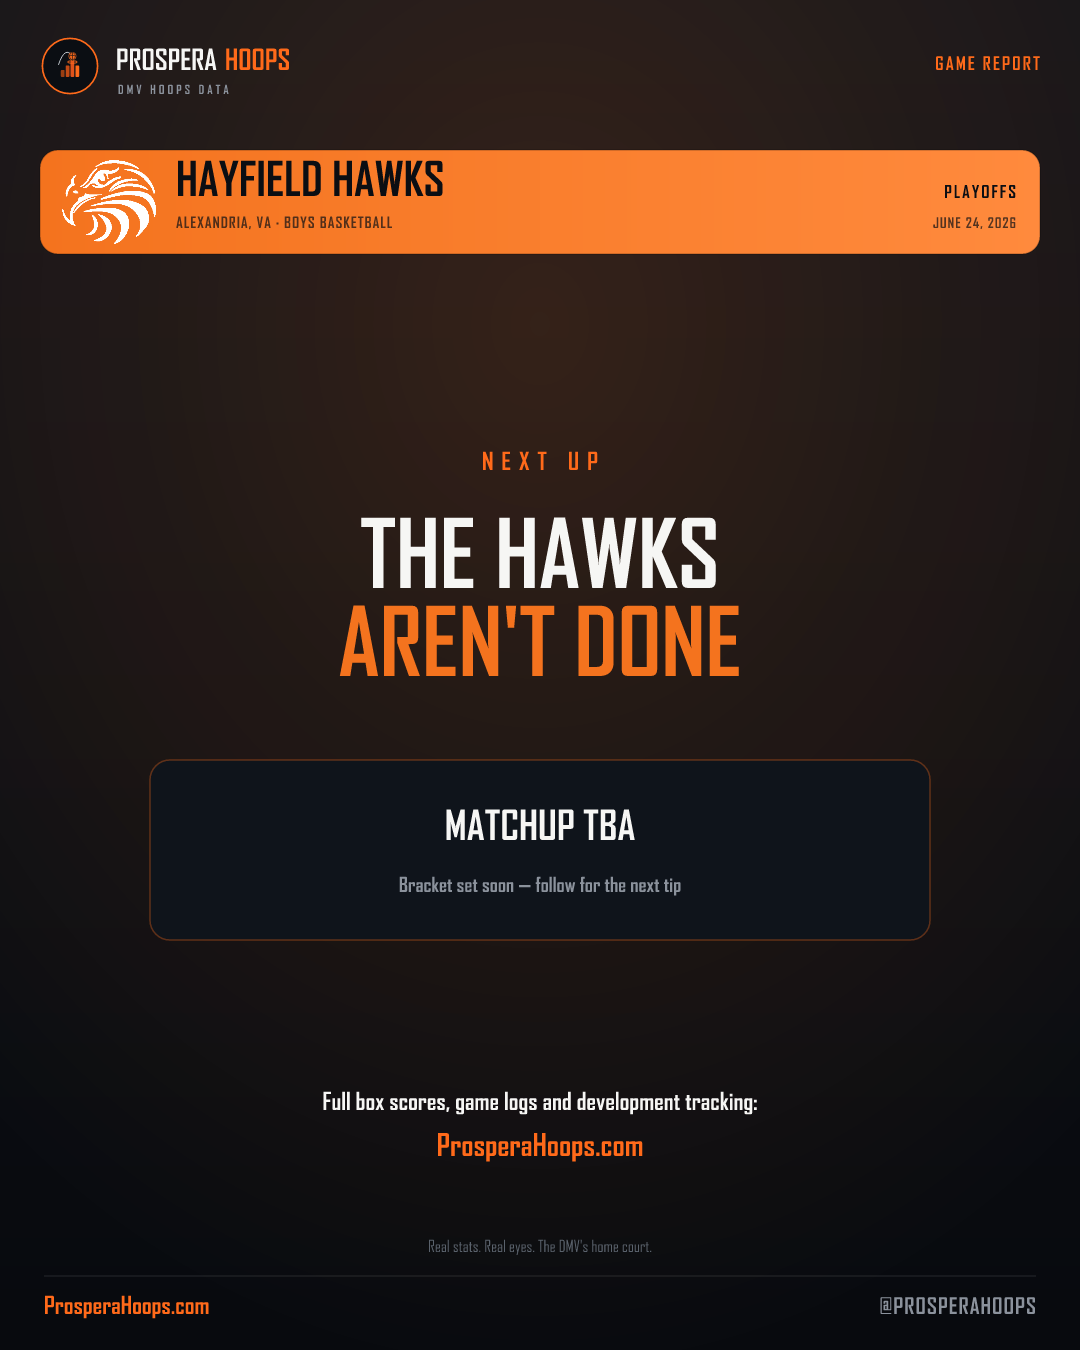
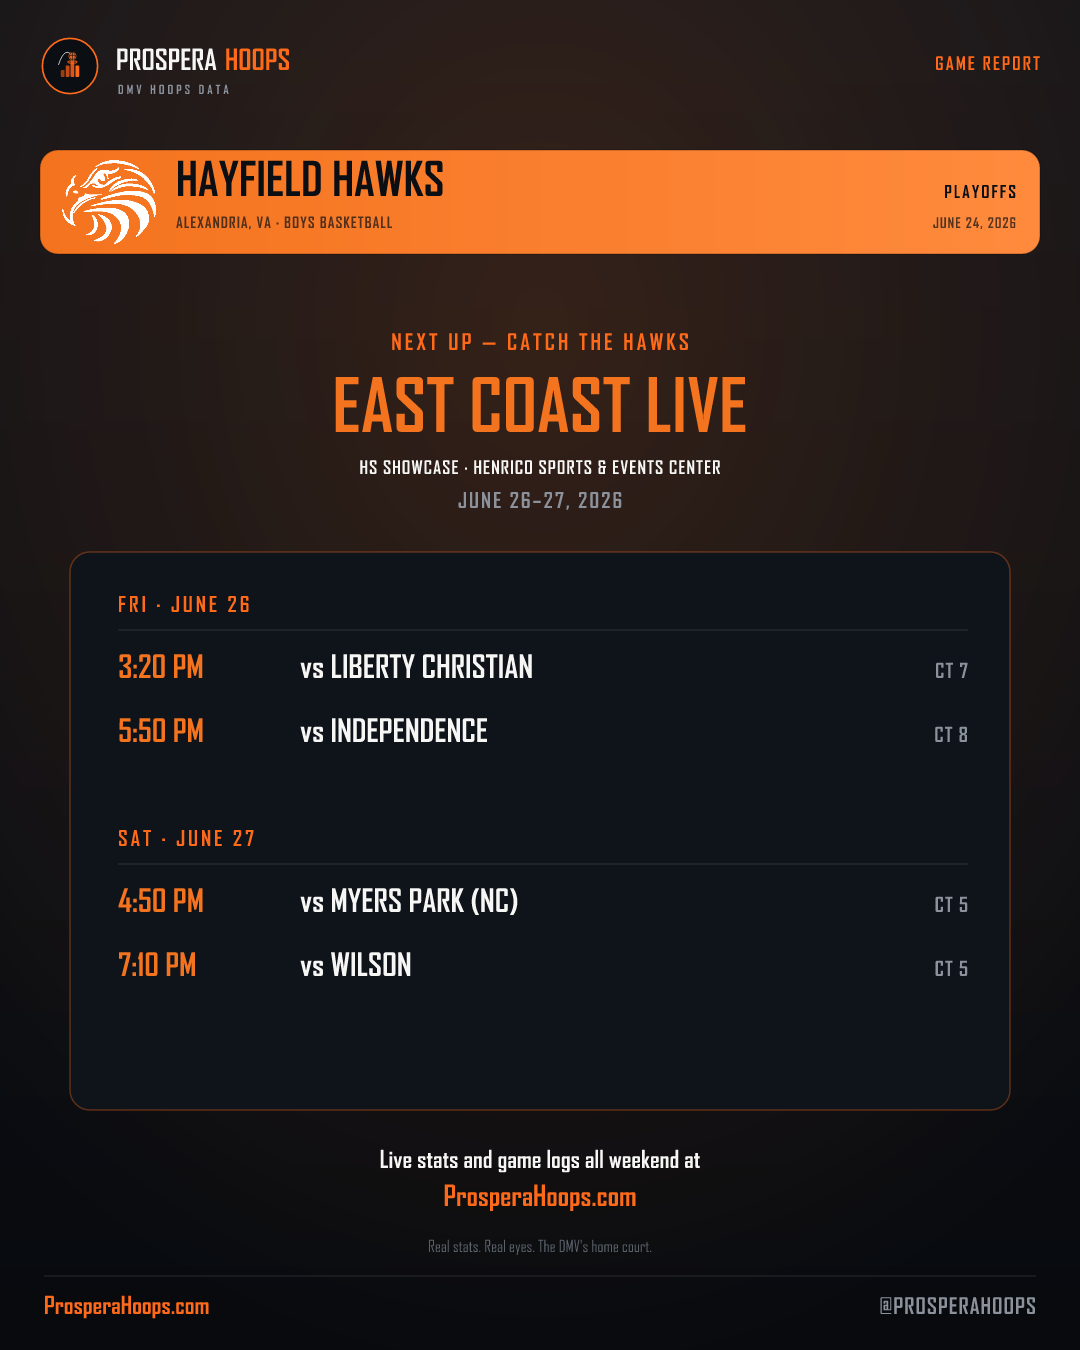
Playoff pack: East Coast Live schedule (slide 4) + 4 angle slides (defense, Jackson, glass, FT line)

diff --git a/docs/social-posts/playoff-0624/captions.md b/docs/social-posts/playoff-0624/captions.md
@@ -1,7 +1,10 @@
 # Hayfield Hawks — Playoff Game Report (6/24/26)
 
 Capitol Hoops Summer League Playoffs · **Hayfield 71, Colonels 75 (OT)**
-Slides: `1-result.png` → `2-standouts.png` → `3-comeback.png` → `4-next.png`
+8-slide carousel in this folder:
+`1-result` · `2-standouts` · `3-comeback` · `4-next` · `5-defense` · `6-jackson` · `7-glass` · `8-line`
+
+> All player/team numbers are from this single playoff game (official LegitGM box score) — distinct from the season averages shown on the site.
 
 ---
 
@@ -14,17 +17,22 @@ The Hawks went toe-to-toe to the wire — tied **13 times**, **11 lead changes**
 Down 6 at the half, Hayfield answered with a **38–32 second half (52% FG, 50% from three)** to force overtime.
 
 WHO SHOWED UP ⬇
-🔸 Chase Jackson — 24 PTS (7-14 FG, 8-8 FT), 4 STL, +12
+🔸 Chase Jackson — 24 PTS (7-14 FG, perfect 8-8 FT), 4 STL, +12
 🔸 Christian Towe — 19 PTS, 6 REB, 2 STL, 1 BLK
 🔸 Grant Cage — 14 PTS, 5 REB
-🔸 Bench spark — Candin Sweet: 5 REB, 2 STL, 1 BLK
+🔸 Defense traveled — 11 STEALS, 15 turnovers forced; Candin Sweet 5 REB / 2 STL / 1 BLK off the bench
+🔸 Owned the glass — 33 REB (13 offensive → 12 second-chance pts)
+🔸 Ice at the line — 21-28 FT (75%); Jackson, Cage & Sow all perfect
 
-The Hawks aren't done. **Next up: [OPPONENT · DATE].**
+**Next up — catch the Hawks at EAST COAST LIVE 🏀**
+Henrico Sports & Events Center · June 26–27
+• Fri 6/26 — 3:20 vs Liberty Christian · 5:50 vs Independence
+• Sat 6/27 — 4:50 vs Myers Park (NC) · 7:10 vs Wilson
 
 Full box scores, game logs and development tracking → ProsperaHoops.com
 Stats: LegitGM / Capitol Hoops Summer League
 
-#HayfieldHawks #DMVHoops #CapitolHoops #SummerLeague #ProsperaHoops #AAU #VAHoops
+#HayfieldHawks #DMVHoops #CapitolHoops #EastCoastLive #ProsperaHoops #AAU #VAHoops
 
 ---
 
@@ -32,29 +40,34 @@ Stats: LegitGM / Capitol Hoops Summer League
 
 🦅 BATTLE TO THE BUZZER — Hayfield took it to OT (71–75)
 Down 6 at half → 38–32 surge to force overtime.
-Jackson 24 · Towe 19 · Cage 14.
-The Hawks aren't done. Next up: [OPPONENT · DATE].
+Jackson 24 · Towe 19 · Cage 14 · 11 team steals.
+NEXT: East Coast Live, June 26–27 @ Henrico.
 → ProsperaHoops.com
 
 ---
 
 ## X / Twitter
 
-Hayfield 71, Colonels 75 (OT) — Capitol Hoops Summer League playoffs.
+Hayfield went to the buzzer in the Capitol Hoops playoffs — tied 13×, 11 lead changes, 65-65 to force OT (71-75).
 
-Tied 13×, 11 lead changes. Down 6 at the half, the Hawks went 38–32 in the 2nd (52% FG, 50% 3PT) to force OT.
+Jackson 24 (4 STL, +12) · Towe 19 · Cage 14 · 11 team steals.
 
-Jackson 24 (4 STL, +12) · Towe 19 · Cage 14.
-
-Next up: [OPPONENT]. 🦅 ProsperaHoops.com
+Next: East Coast Live, June 26–27 @ Henrico. 🦅 ProsperaHoops.com
 
 ---
 
-## Per-slide alt text
+## Per-slide captions / alt text
 
-1. **Result** — Scoreboard: Hayfield 71, Colonels 75, final in overtime. Period-by-period: 27/38/6 vs 33/32/10. Tied 13 times, 11 lead changes, regulation 65–65.
-2. **Standouts** — Chase Jackson 24 pts; Christian Towe 19 pts; Grant Cage 14 pts; Candin Sweet bench spark.
-3. **The Comeback** — Bar chart of points per period; second-half surge of 52% FG and 50% from three to force OT.
-4. **Next Up** — The Hawks aren't done; next matchup [OPPONENT · DATE].
+1. **Result** — "Battle to the Buzzer." Hayfield 71, Colonels 75 (OT). Forced overtime; 27/38/6 vs 33/32/10. Tied 13×, 11 lead changes, regulation 65–65. Jackson 24 · Towe 19 · Cage 14.
+2. **Standouts** — Chase Jackson 24 · Christian Towe 19 · Grant Cage 14 + bench spark Candin Sweet.
+3. **The Comeback** — Down 6 at half, the Hawks went 38–32 in the second on 52% FG / 50% from three to force OT.
+4. **Next Up** — East Coast Live HS Showcase, Henrico Sports & Events Center, June 26–27 (4-game slate).
+5. **Defense Travels** — 11 team steals, 15 turnovers forced, 2 blocks, 20 defensive boards. Sweet's glue line off the bench.
+6. **Chase Jackson** — Star of the night: 24 PTS, 50% FG, perfect 8-8 FT, 4 STL, team-best +12. (G · 2028 · 6'2)
+7. **Owned the Glass** — 33 rebounds, 13 offensive, 12 second-chance points. Moore 7 · Towe 6 · Cage 5 · Sweet 5.
+8. **Money at the Line** — 21-28 FT (75%); Jackson 8-8, Cage 6-6, Sow 2-2 all perfect under pressure.
 
-> Note: all numbers are from this single playoff game (LegitGM official box score) — distinct from the season averages shown on the site.
+---
+
+### Note on the 4th showcase game
+The 7:10 PM Saturday opponent ("vs WILSON") was partially obscured in the source graphic — confirm the exact program (e.g. Wilson HS / Woodrow Wilson) before posting.
